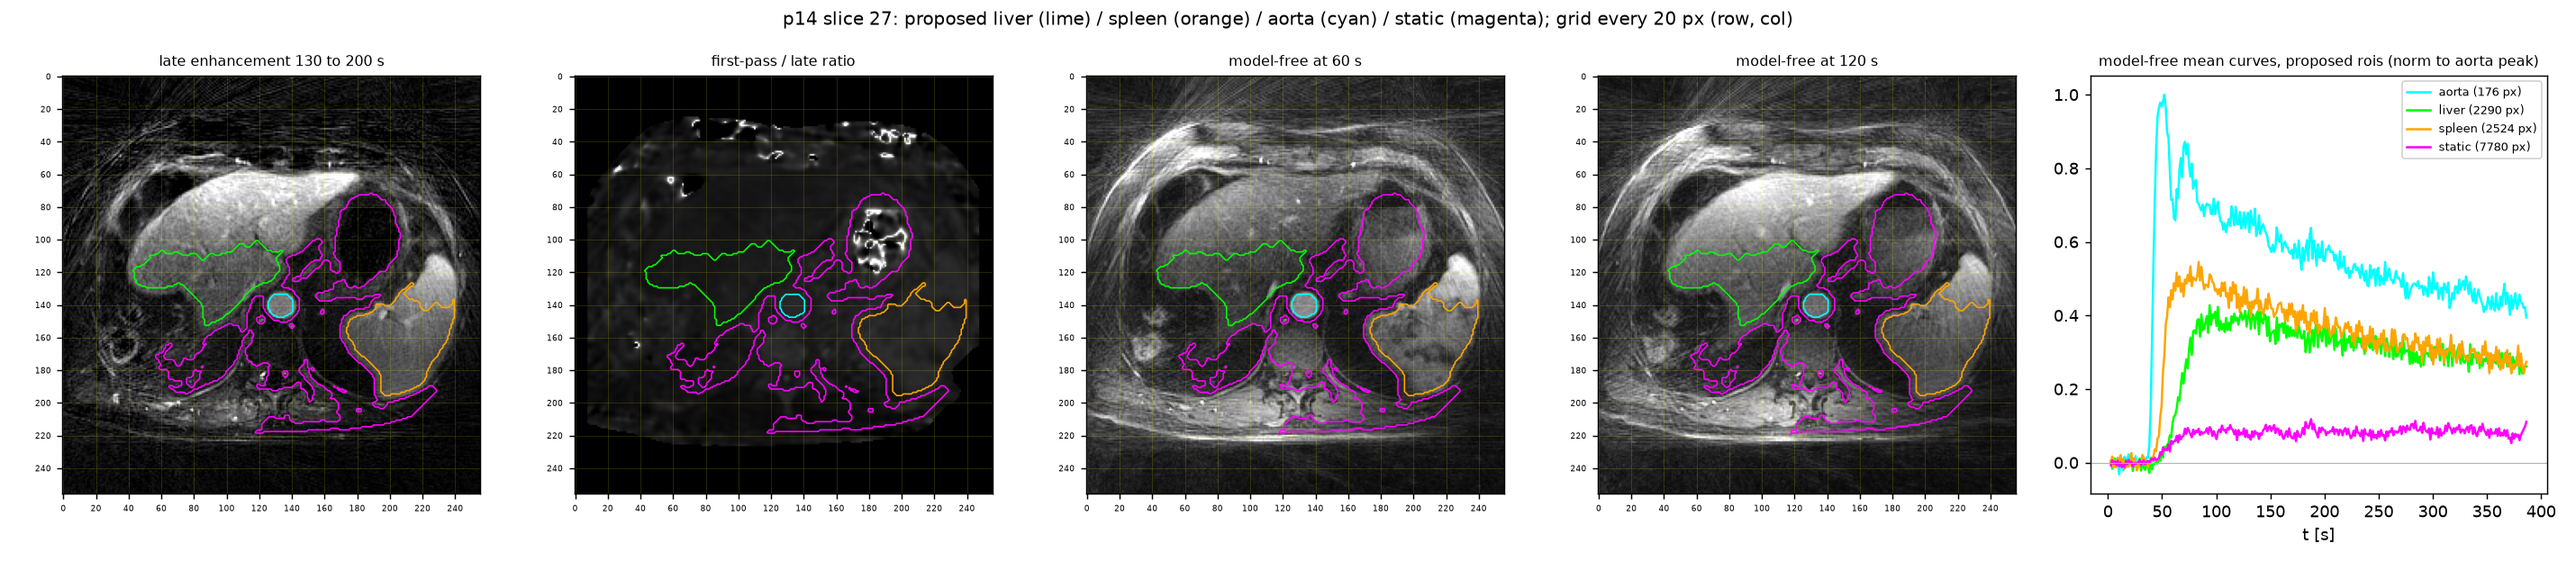
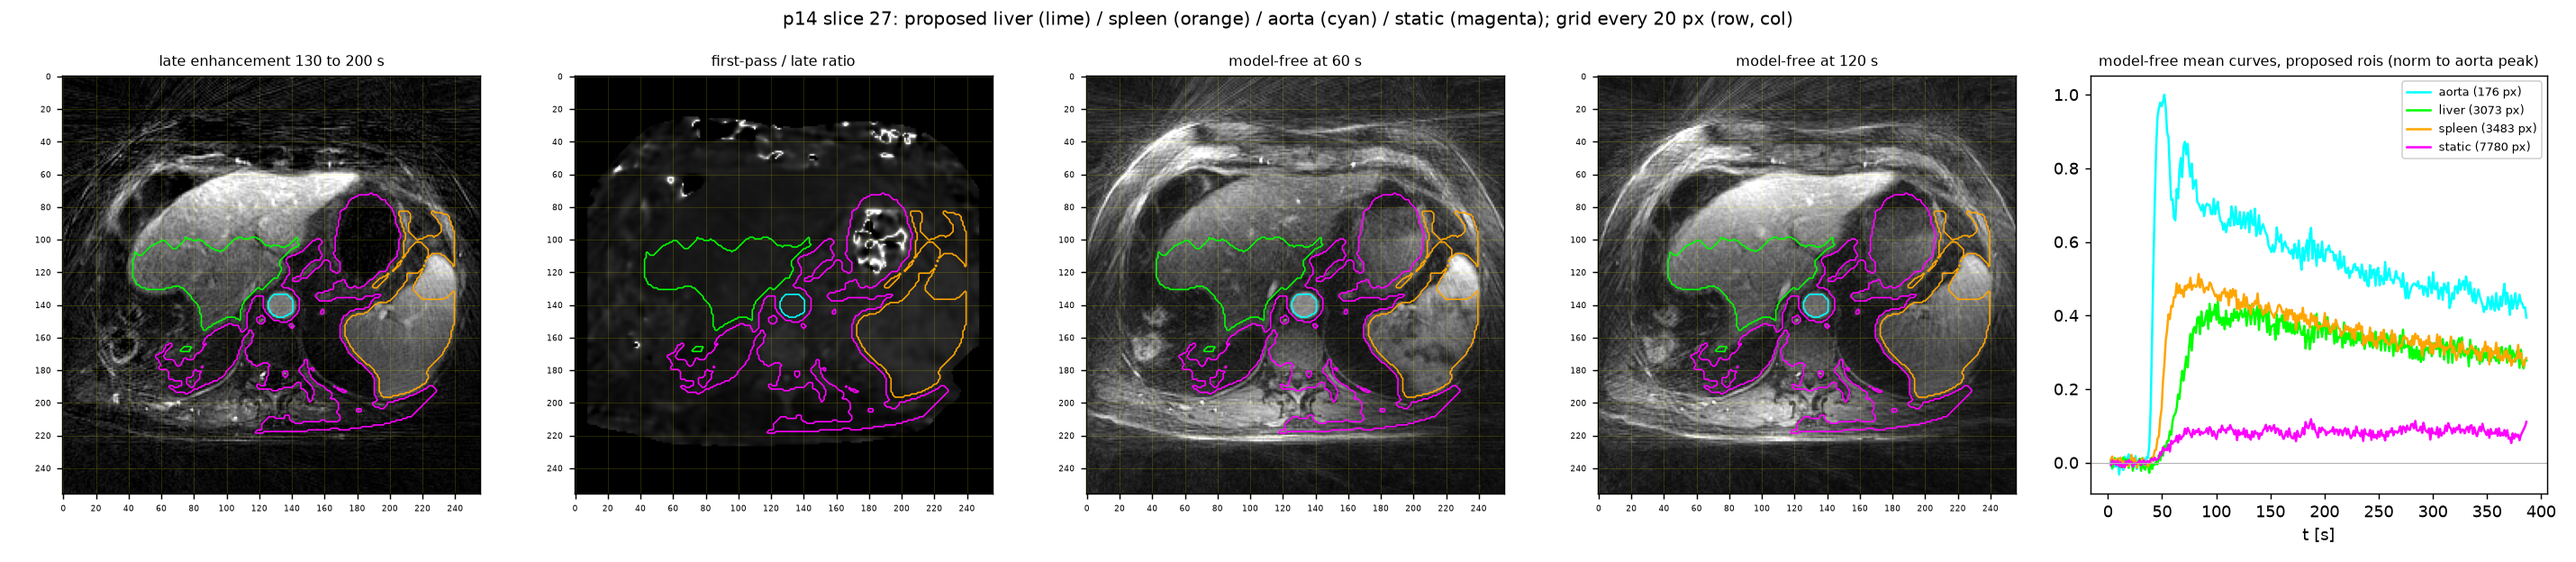
agent 2026-09-25 10:33 worker01.cluster: 9 files

diff --git a/jobs/agent/status.md b/jobs/agent/status.md
@@ -1,18 +1,17 @@
 # helios agent
 
-updated 2026-09-25 10:31:32 on worker01.cluster, job 3373495, cycle 139
+updated 2026-09-25 10:33:37 on worker01.cluster, job 3373495, cycle 140
 
 ## active
 
 | jid | script | state |
 |---|---|---|
-| 3380028 | 084_p14_rois_seeded_v3 | 1 PENDING None |
 
 ## done (last 20)
 
 | name | state |
 |---|---|
-| 084_p14_rois_seeded_v3 | 1 PENDING None |
+| 084_p14_rois_seeded_v3 | 1 COMPLETED 00:00:16 |
 | 083_p14_rois_seeded_v2 | 1 COMPLETED 00:00:19 |
 | 082_p14_rois_seeded | 1 COMPLETED 00:00:07 |
 | 081_p14_grids | 1 COMPLETED 00:00:20 |

diff --git a/results/realdata_nik_vs_cs_figures/rois_proposed_p14.md b/results/realdata_nik_vs_cs_figures/rois_proposed_p14.md
@@ -2,6 +2,6 @@
 
 | slice | liver px | spleen px | aorta px | static px | liver ttp s / plateau | spleen ttp s / plateau |
 |---|---|---|---|---|---|---|
-| 21 | 2392 | 2769 | 199 | 2900 | 134 / 0.68 | 79 / 0.57 |
-| 24 | 4 | 2659 | 197 | 2929 | 110 / 0.11 | 84 / 0.55 |
-| 27 | 2290 | 2524 | 176 | 7780 | 94 / 0.68 | 84 / 0.55 |
+| 21 | 3815 | 3518 | 199 | 2900 | 131 / 0.69 | 80 / 0.58 |
+| 24 | 2301 | 3324 | 197 | 2929 | 323 / 0.75 | 84 / 0.57 |
+| 27 | 3073 | 3483 | 176 | 7780 | 101 / 0.69 | 84 / 0.61 |
